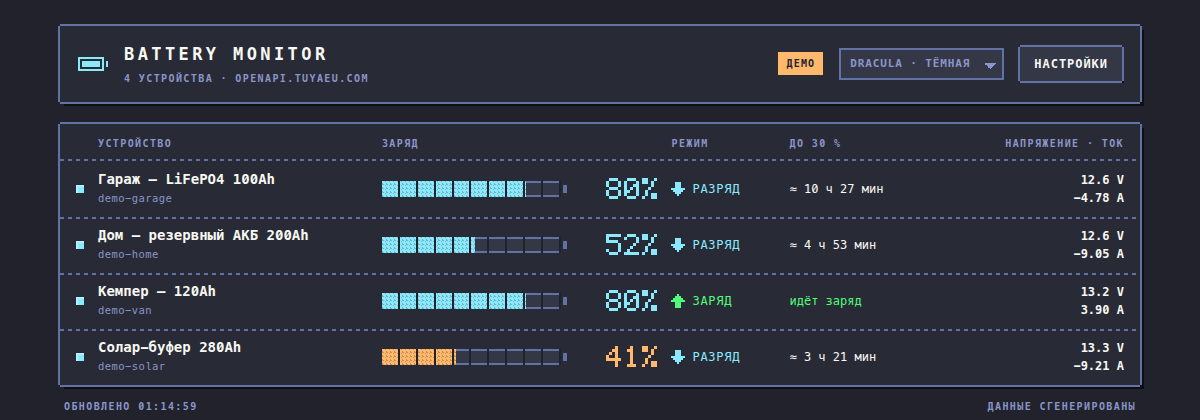
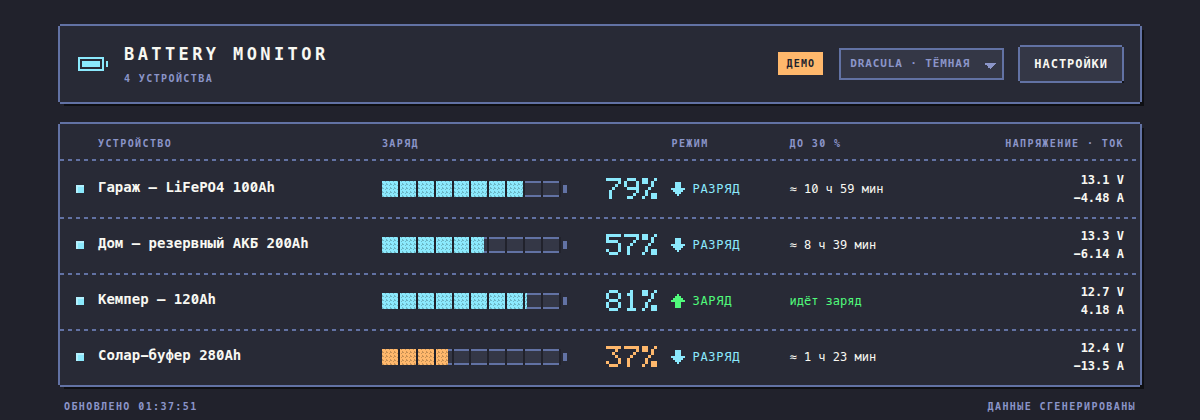
Убрать адрес API и Device ID с главной страницы
В шапке дашборда остаётся только число устройств — хост Tuya оттуда
убран. В списке под именем батареи больше не показывается Device ID:
идентификатор нужен при настройке, а в мониторинге только шумит.
Он по-прежнему виден в админ-панели и на странице устройства.

Скриншоты дашборда в README перерисованы под новый вид.

Claude-Session: https://claude.ai/code/session_01ETJ99dPxA2KtYRnk8KG7W3

diff --git a/app/static/index.html b/app/static/index.html
@@ -37,9 +37,6 @@
   .row:focus-visible { outline-offset:calc(-1*var(--px)); }
 
   .name b { display:block; font-size:14px; font-weight:700; line-height:1.3; }
-  .name i { display:block; font-style:normal; font-size:10.5px; color:var(--dim);
-    letter-spacing:.04em; margin-top:2px;
-    overflow:hidden; text-overflow:ellipsis; white-space:nowrap; }
 
   .soc { text-align:right; line-height:0; }
   .soc .dash { font-size:16px; color:var(--dim); line-height:1; }
@@ -136,7 +133,7 @@ function etaCell(dev) {
 
 function row(dev) {
   const href = `/device/${encodeURIComponent(dev.id)}`;
-  const name = `<span class="name"><b>${escapeHtml(dev.name)}</b><i>${escapeHtml(dev.id)}</i></span>`;
+  const name = `<span class="name"><b>${escapeHtml(dev.name)}</b></span>`;
 
   if (!dev.online) {
     return `<a class="row offline" href="${href}">
@@ -172,7 +169,7 @@ async function loadConfig() {
     pollInterval = Math.max(10, c.poll_interval || 15);
     $("demoBadge").hidden = !c.demo_mode;
     const n = (c.devices || []).length;
-    $("sub").textContent = `${n} ${plural(n, "устройство", "устройства", "устройств")} · ${new URL(c.endpoint).host}`;
+    $("sub").textContent = `${n} ${plural(n, "устройство", "устройства", "устройств")}`;
   } catch (e) { $("sub").textContent = "сервер не отвечает"; }
 }
 
